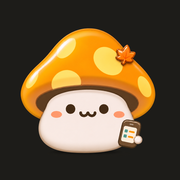
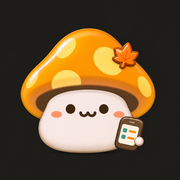
로고를 앱 아이콘(버섯)으로, 아이콘을 단풍잎 · 핸드폰 키운 판으로
- components/brand.tsx: 주황 사각 문양 → public/brand-mark.png (app/icon.png 의 96px 사본)
  정적 import 로 주소에 내용 해시(아이콘을 바꿔도 예전 캐시 안 씀), unoptimized(32px 최적화가 색을 바래게 함)
- app/icon.png · app/apple-icon.png: 단풍잎 · 핸드폰을 키운 새 그림
- handoff: 아이콘을 바꾸면 brand-mark 다시 만드는 명령

Changed region(s): [[0.6111, 0.6389, 0.8056, 0.8333], [0.6111, 0.2222, 0.7778, 0.3889]]

diff --git a/components/brand.tsx b/components/brand.tsx
@@ -1,8 +1,12 @@
+import Image from "next/image";
 import Link from "next/link";
 import { cn } from "@/lib/utils";
+// Static import: the URL carries a content hash, so a new icon is never served from an old browser cache.
+import brandMark from "@/public/brand-mark.png";
 
-/** Orange square logo mark + site name (redesign A). */
+/** App icon (mushroom, same picture as app/icon.png) + site name. public/brand-mark.png is a 96px copy so the logo stays light. */
 export function Brand({ compact = false, className }: { compact?: boolean; className?: string }) {
+  const size = compact ? 28 : 32;
   return (
     <Link
       href="/"
@@ -12,26 +16,8 @@ export function Brand({ compact = false, className }: { compact?: boolean; class
         className
       )}
     >
-      <span
-        className={cn(
-          "flex shrink-0 items-center justify-center bg-primary text-primary-foreground",
-          compact ? "size-7 rounded-[7px]" : "size-8 rounded-lg"
-        )}
-      >
-        <svg
-          width={compact ? 15 : 18}
-          height={compact ? 15 : 18}
-          viewBox="0 0 24 24"
-          fill="none"
-          stroke="currentColor"
-          strokeWidth={compact ? 2.4 : 2.2}
-          strokeLinecap="round"
-          strokeLinejoin="round"
-          aria-hidden="true"
-        >
-          <path d="M12 2l2.2 4.6 4.8-1.4-1.6 4.6 4.6 2.2-4.6 2.2 1.6 4.6-4.8-1.4L12 22l-2.2-4.6-4.8 1.4 1.6-4.6L2 12l4.6-2.2L5 5.2l4.8 1.4z" />
-        </svg>
-      </span>
+      {/* unoptimized: the 96px file is already small, and the optimizer washed its colours out at 32px */}
+      <Image src={brandMark} alt="" width={size} height={size} priority unoptimized className="shrink-0" />
       메이플 대시보드
     </Link>
   );

diff --git a/.agents/handoff.md b/.agents/handoff.md
@@ -120,6 +120,7 @@
 ## 세션 기록
 
 - 2026-11-08: 0단계 · 1단계 커밋, 2단계 기댓값 · MVP · 핀볼(상세 history).
+- 2026-11-10: 로고 = 앱 아이콘(버섯, `app/icon.png` 512px 투명 → `public/brand-mark.png` 96px 사본, `components/brand.tsx` next/image 정적 import(주소에 내용 해시 → 예전 캐시 안 씀) + unoptimized(최적화가 32px 에서 색을 바래게 함)). **아이콘 바꾸면 brand-mark 도 다시 만들기**: `node -e "require(\"sharp\")(\"app/icon.png\").resize(96,96).png({compressionLevel:9}).toFile(\"public/brand-mark.png\")"`. 같은 날 사용자가 아이콘을 키운 판(단풍잎 · 핸드폰 크게)으로 바꿈 — icon.png · apple-icon.png · brand-mark 반영 확인.
 - 2026-11-10: 썬데이 지난 기록 데이터 파일(`lib/sunday/data/`, 출처 인벤 47579 + 공식 이미지, 74주 이미지 대조 일치).
 - 2026-11-09(밤): 숨은 스펙업 데이터 파일(48직업) · 보스 프리셋 규칙(maplescouter 대조) · 어빌 기준(레레레 종결 / 실전) · `/spec` 화면 완성.
 - 2026-11-09: 2단계 1~14차 수정(상세 history), 어빌리티 4단계 "뜬 옵션" 칩 + `afterTwo[].resets`(테스트 44개, 크롬 3011 빌드본 데스크톱 다크 · 375px iframe 다크 · 라이트, 넘침 없음), 어빌리티 안내 문구를 명사형 화살표로 줄임(사용자: "~해요" 없이 "재설정 · 잠금 · 목표 수치" 식, 예 "서큘레이터로 목표 수치 → 잠금 → 고급 재설정", 제목 "가장 싼 순서", "n억 절약"), Codex 집중 리뷰(gpt-6.1-sol) 지적 1개(계산 조건이 바뀌어도 ④ 선택이 남음) 반영 · 크롬 재확인(지적 그대로라 다시 리뷰 생략), handoff 34KB → 정리(원문 history).
